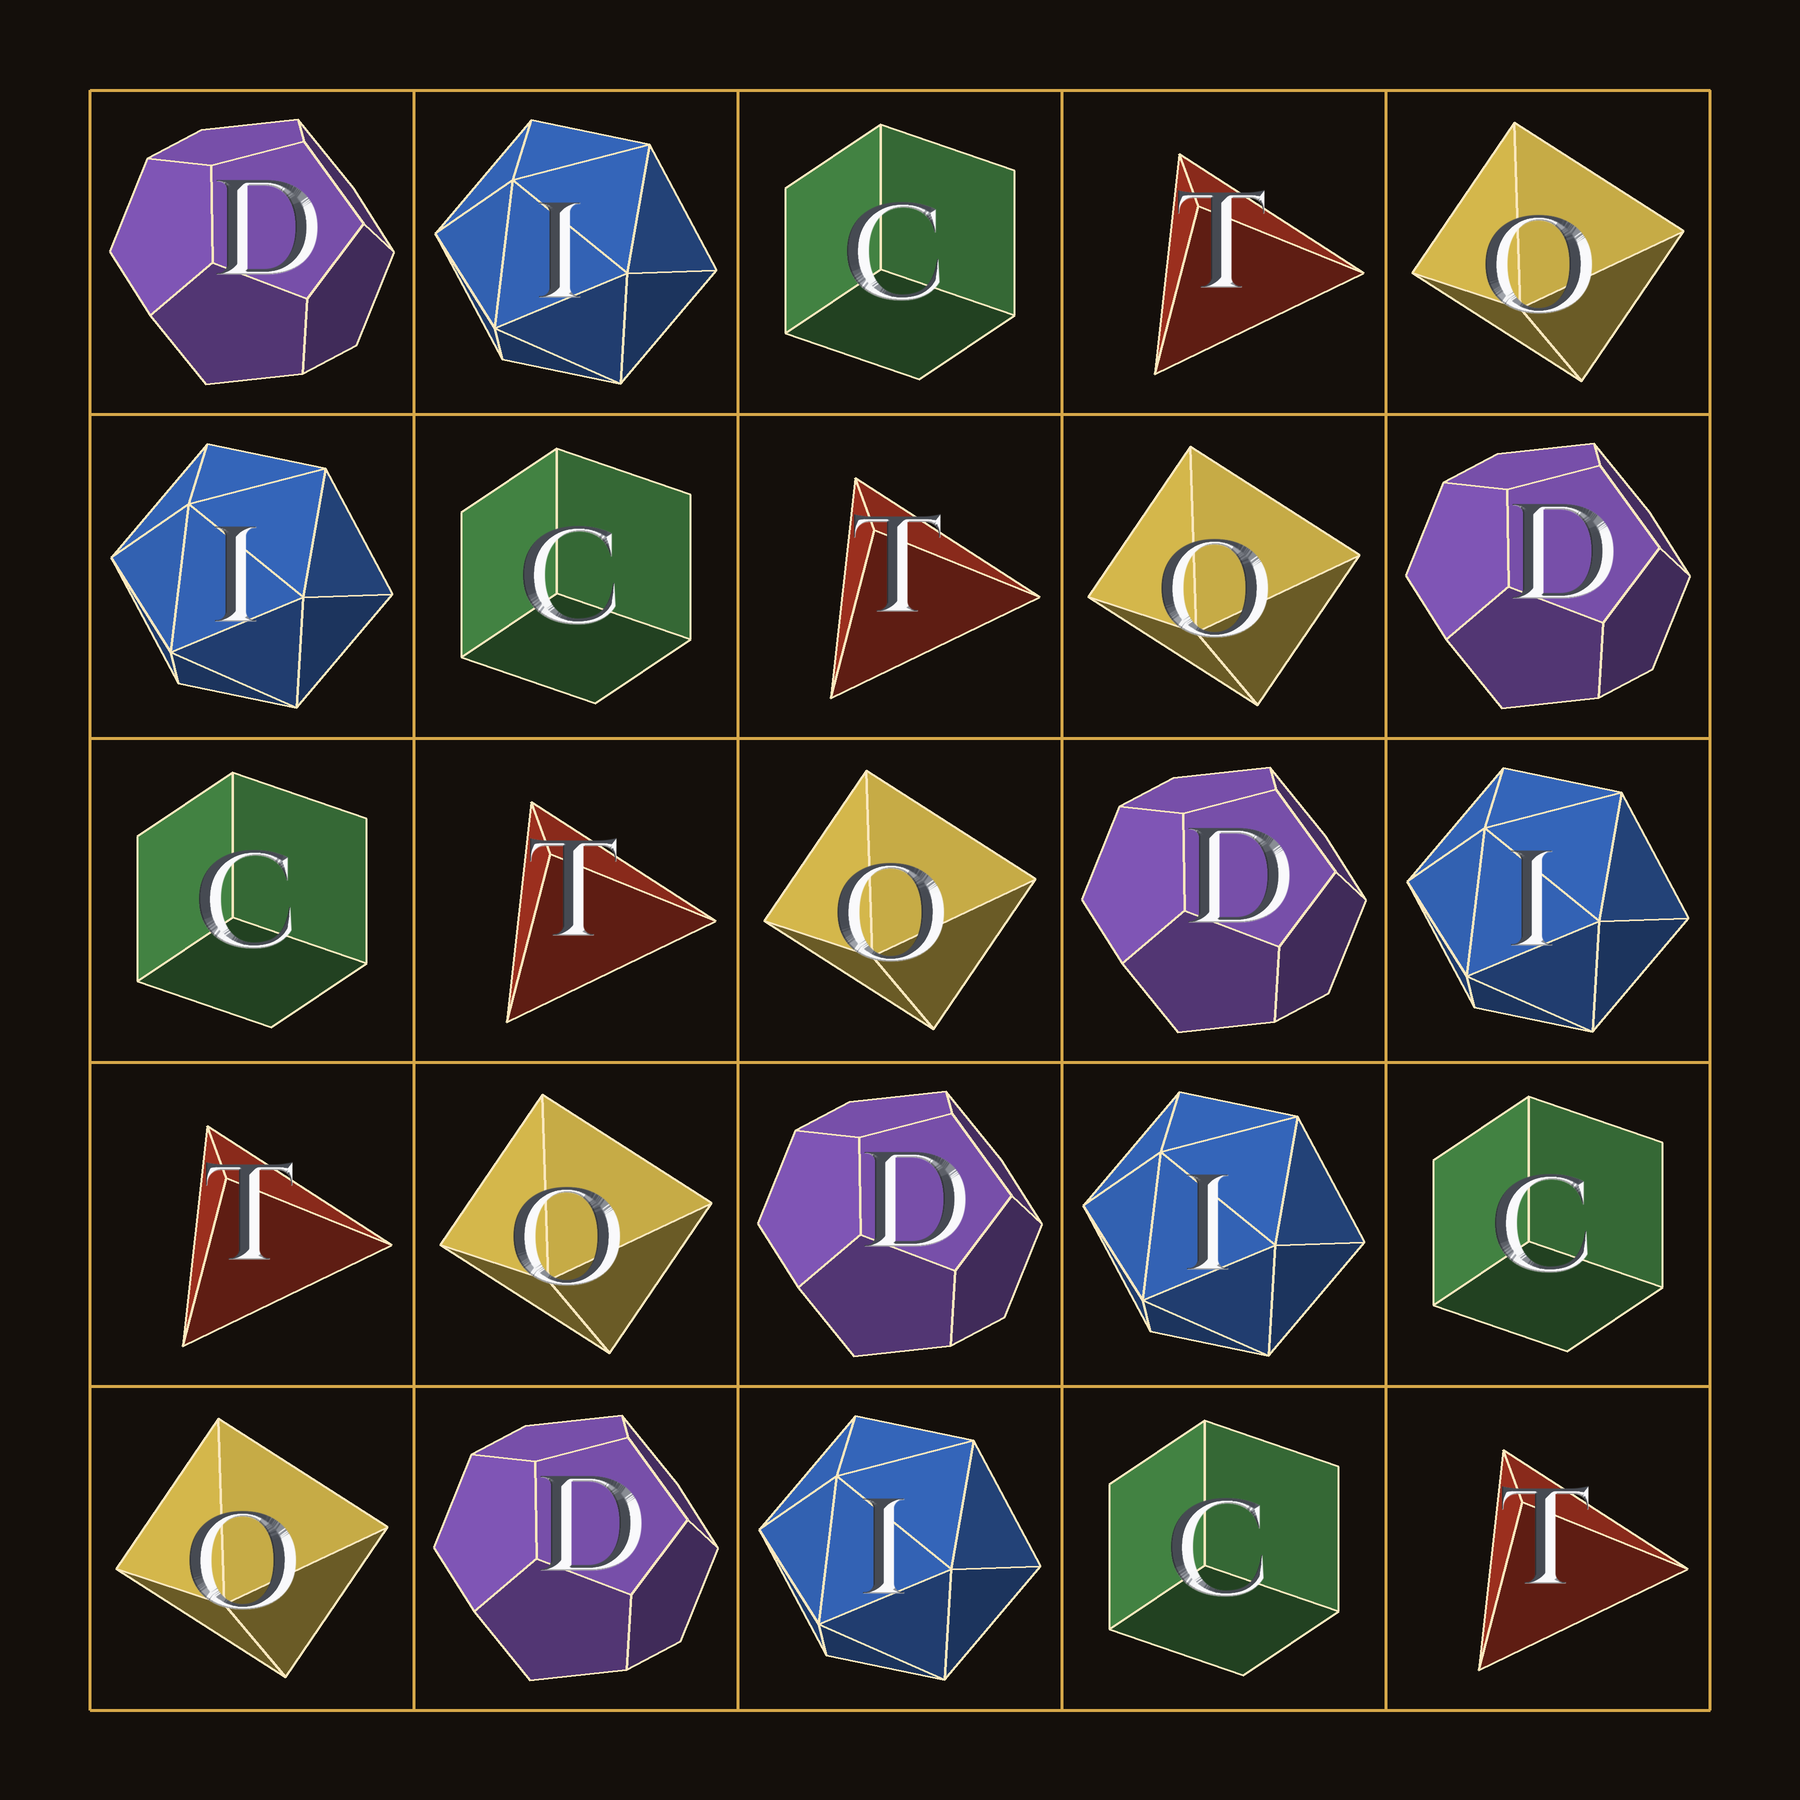
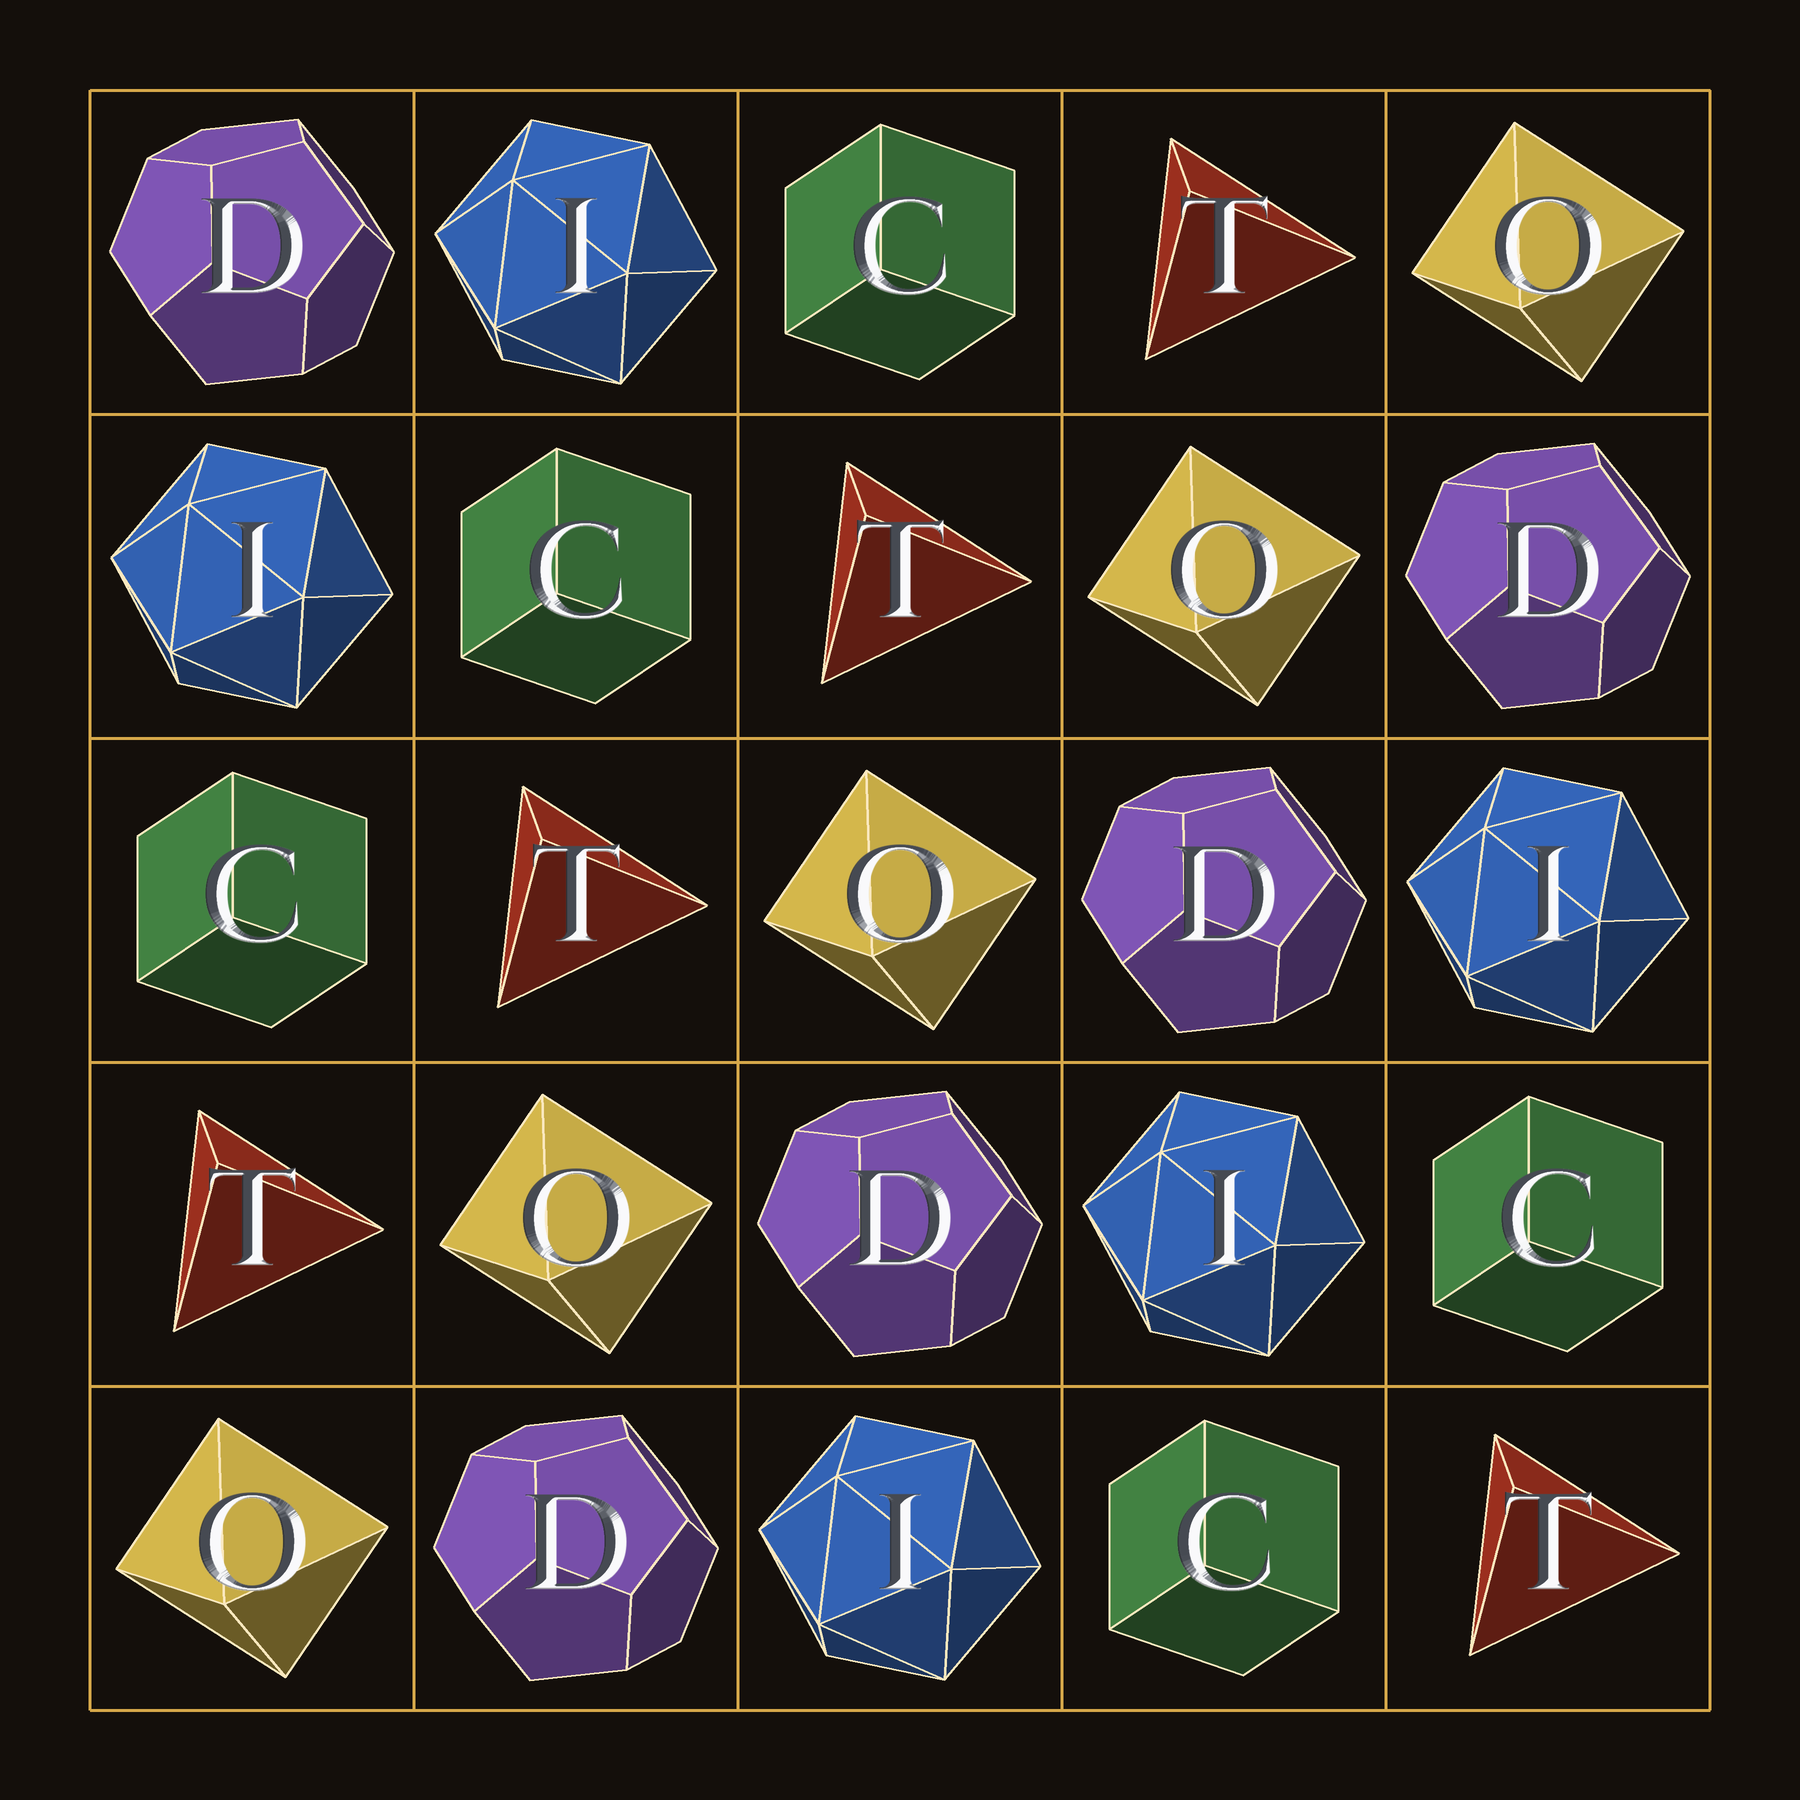
DICTO square: letters on the cell centres (rows line up); each form centred by its visible area under its letter

diff --git a/studies/2026-10-22-dicto-square/dicto_square.py b/studies/2026-10-22-dicto-square/dicto_square.py
@@ -60,11 +60,15 @@ for i in range(5):
     for j in range(5):
         k=M[i][j]; V,F=SOL[k]; R=POSE[k]
         pos=np.array([j-2,2-i,0.0])
-        Vw=(V@R.T)*0.44+pos; Vv=Vw@view.T
+        Vb=(V@R.T)*0.44; Fv=[(n@R.T@view.T,idx) for n,idx in F]
+        def pc(P):   # area and centroid of a projected polygon
+            x,y=P[:,0],P[:,1]; c=x*np.roll(y,-1)-np.roll(x,-1)*y; A=c.sum()/2
+            return abs(A), np.array([((x+np.roll(x,-1))*c).sum(),((y+np.roll(y,-1))*c).sum()])/(6*A)
+        ac=[pc((Vb@view.T)[idx][:,:2]) for n,idx in Fv if n[2]>1e-9]
+        off=sum(a*c for a,c in ac)/sum(a for a,c in ac)          # centre of the visible outline's area
+        Vw=Vb-np.array([off[0],off[1],0])+pos; Vv=Vw@view.T
         items.append((Vv[:,2].mean(),k,Vv,[(n@R.T@view.T,idx) for n,idx in F]))
-CEN={}
 for _,k,Vv,F in sorted(items,key=lambda t:t[0]):
-    vis=[Vv[idx][:,:2].mean(0) for n,idx in F if n[2]>1e-9]; CEN[tuple(np.round(Vv.mean(0)[:2],3))]=np.mean(vis,0)   # letter on the visible body
     for n,idx in sorted(F,key=lambda f:Vv[f[1]][:,2].mean()):
         if n[2]<=1e-9: continue
         b=0.45+0.55*max(0,n@light)
@@ -95,6 +99,6 @@ def carved(ch):
 CARVE={ch:carved(ch) for ch in 'DICTO'}
 for i in range(5):
     for j in range(5):
-        p=CEN[tuple(np.round(np.array([j-2,2-i,0.0])[:2],3))]; tile,mask,box=CARVE[M[i][j]]
+        p=np.array([j-2,2-i,0.0])@view.T; tile,mask,box=CARVE[M[i][j]]
         img.paste(tile,(int(ox+p[0]*sc-box/2),int(oy-p[1]*sc-box/2)),mask)
 img=img.resize((N,N),Image.LANCZOS); img.save('dicto-square.png'); print('ok')
